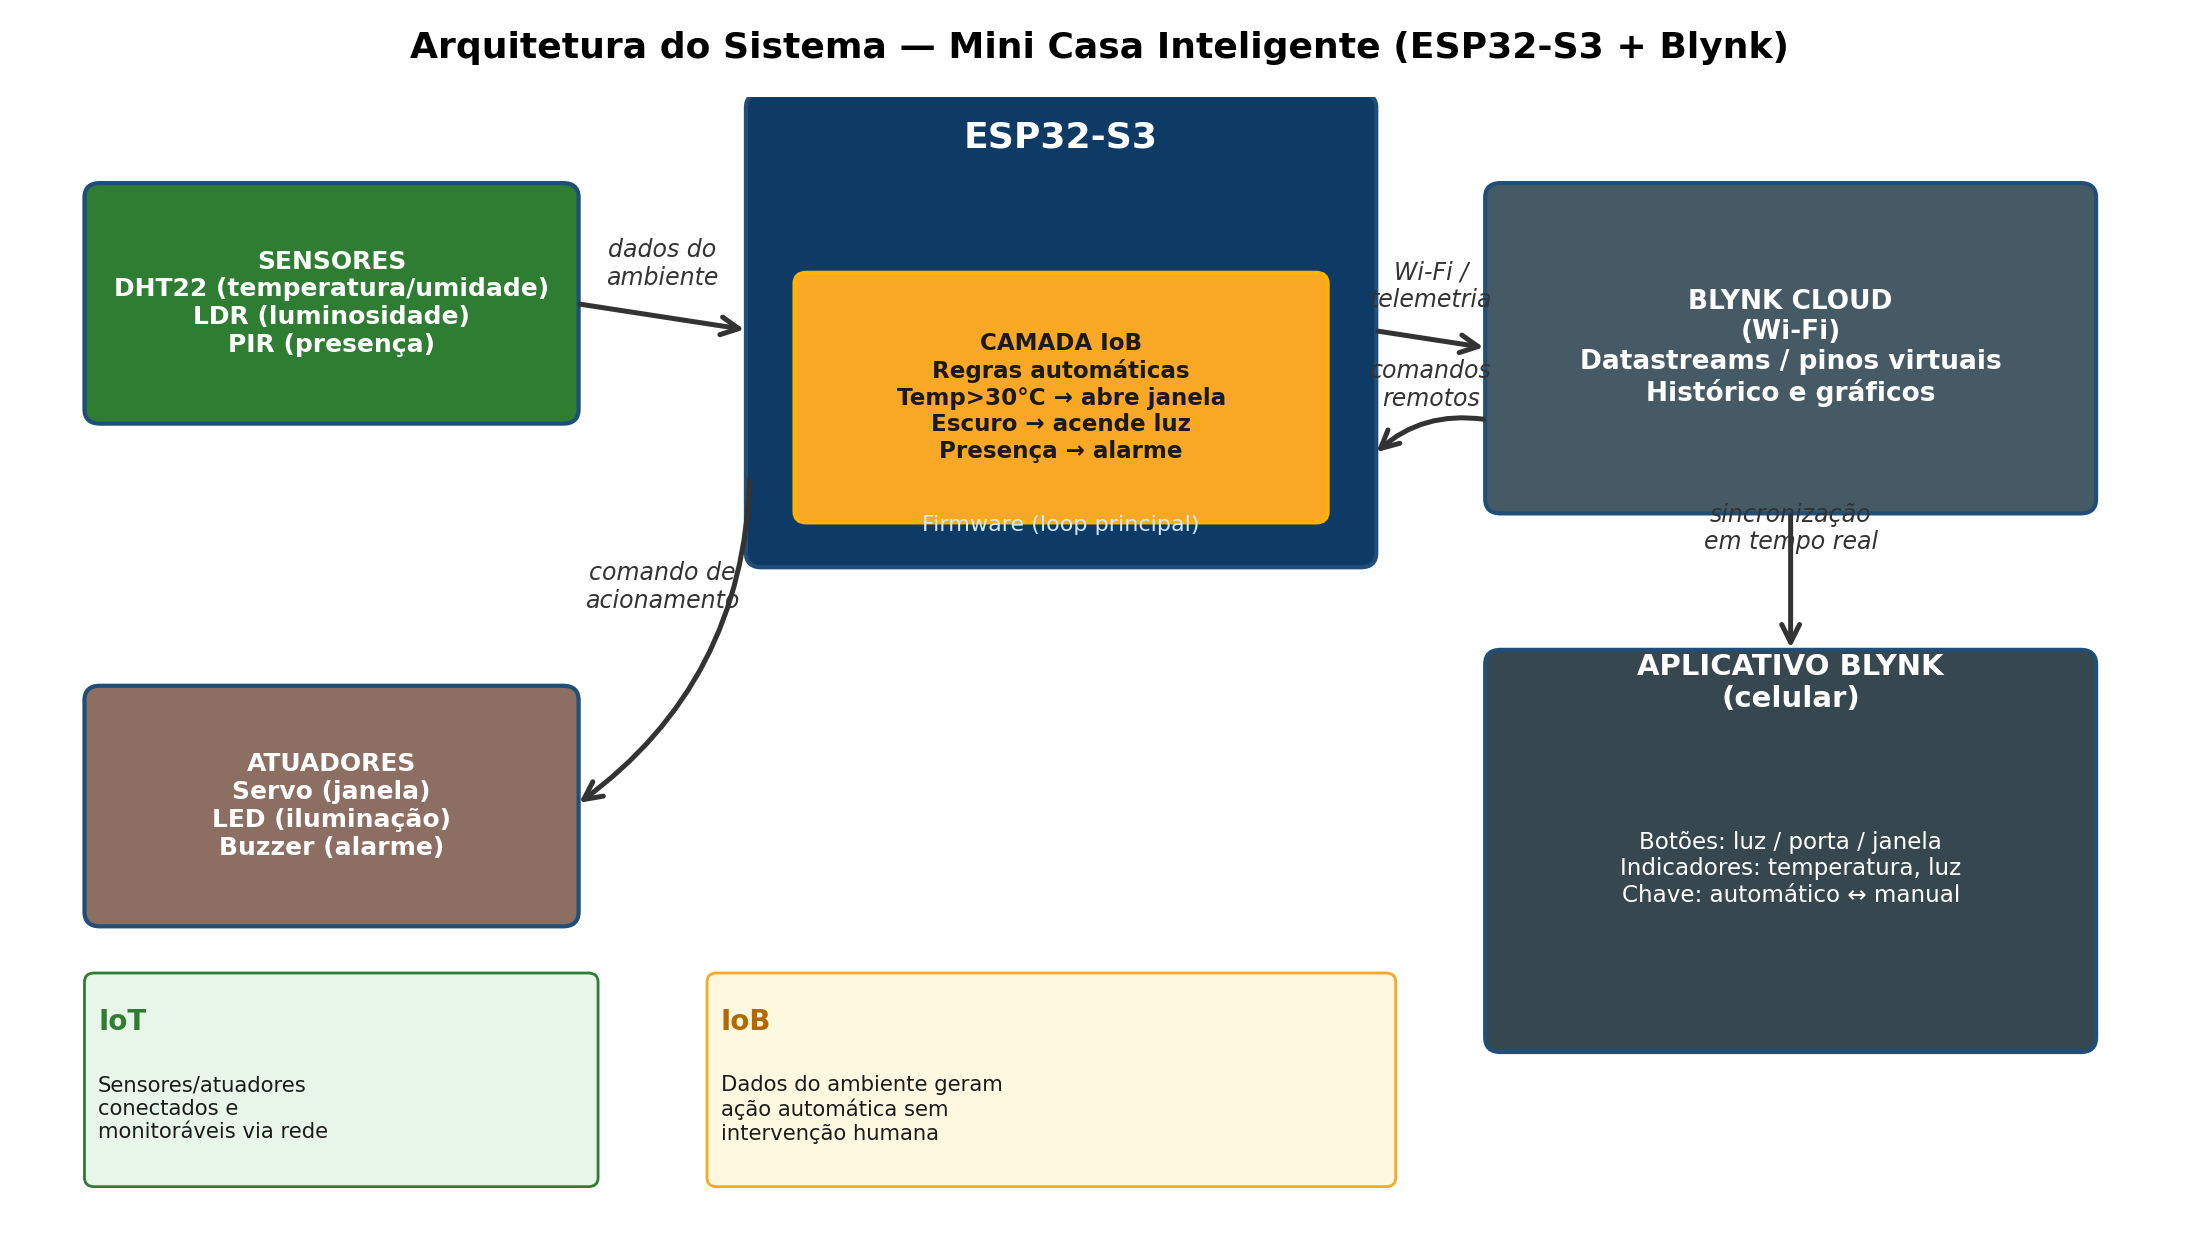
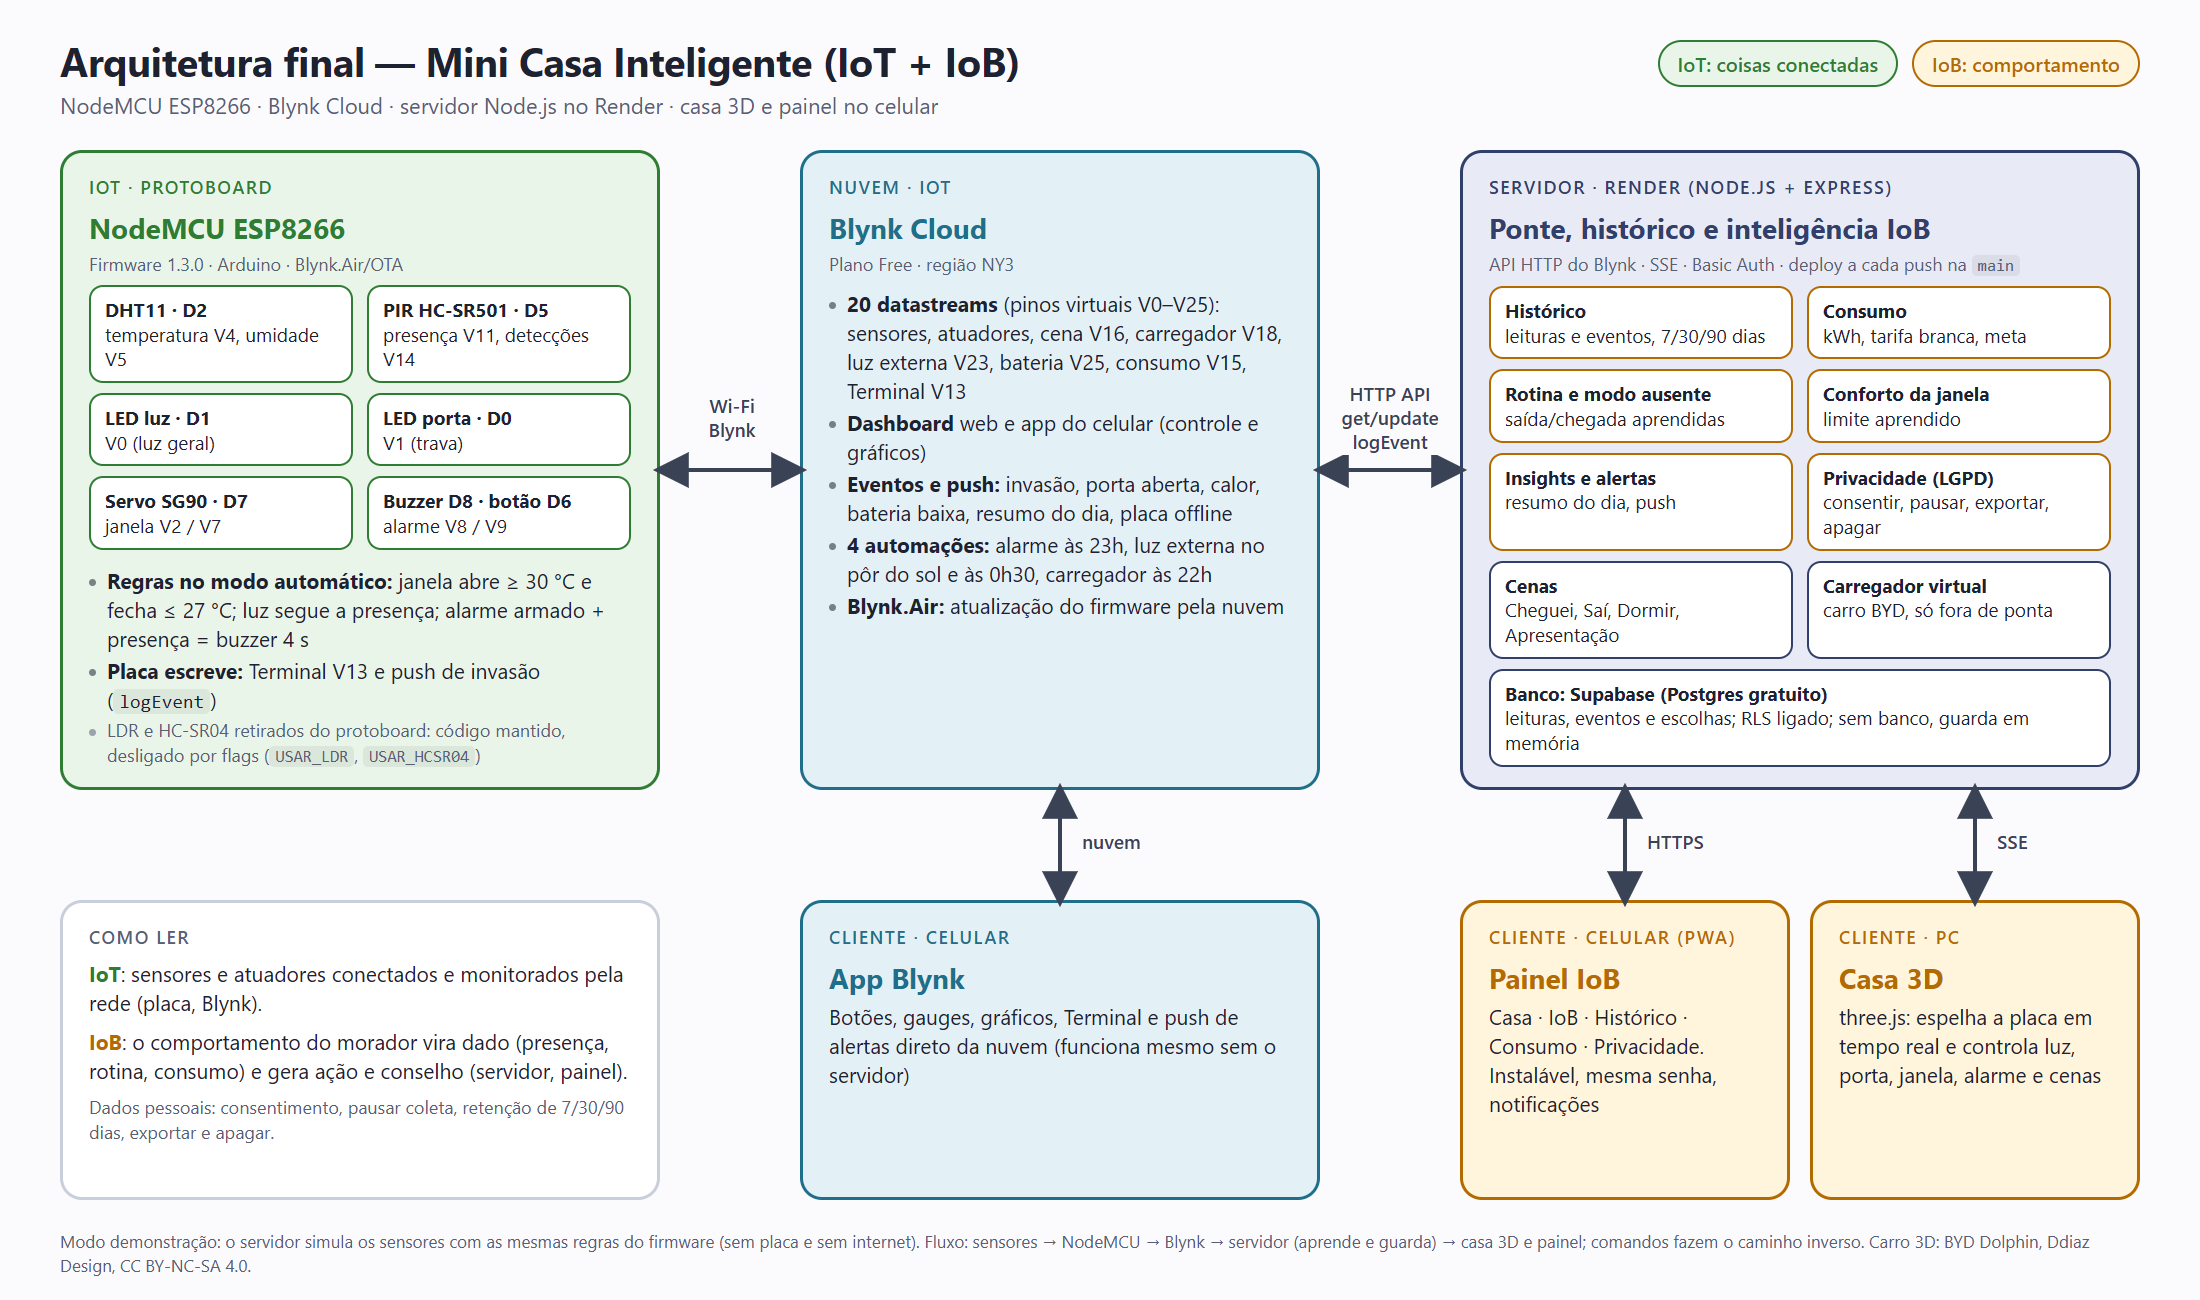
docs(E1): Diagrama da arquitetura final e README atualizados
- docs/arquitetura_iot_iob.png redesenhado: NodeMCU ESP8266, Blynk Cloud, servidor no
  Render com Supabase, casa 3D, painel do celular e app Blynk; legenda IoT x IoB
- README da raiz: IoT x IoB x ética, hardware e pinos virtuais, LDR/HC-SR04 retirados,
  firmware 1.3.0, como rodar, Blynk, Render e créditos dos modelos BYD
- app-3d/README: fluxo com o Supabase, módulos do servidor, variáveis novas e seção
  sobre datastreams, eventos, push e Terminal do Blynk

Refs #27

diff --git a/README.md b/README.md
@@ -1,40 +1,95 @@
 # Mini Casa Inteligente — IoT + IoB
 
-Projeto final de **Internet das Coisas e do Comportamento** (FEPI · Sistemas de Informação).
-NodeMCU ESP8266 com sensores e atuadores, controlado pelo Blynk e espelhado em tempo real
-por um gêmeo digital 3D.
+Projeto final de **Internet das Coisas e do Comportamento** (FEPI · Sistemas de Informação · Prof. Evaldo Renó).
+Um NodeMCU ESP8266 com sensores e atuadores, controlado pelo Blynk, espelhado em tempo real por um gêmeo digital 3D
+e acompanhado por um painel no celular que **aprende a rotina da casa** (a parte IoB).
+
+![Arquitetura final](docs/arquitetura_iot_iob.png)
 
 ```
-app-3d/      Casa 3D + servidor ponte com o Blynk (Node.js, three.js)
-firmware/    Firmware do NodeMCU ESP8266 (credenciais em secrets.h, fora do git)
-scripts/     Tarefas do VS Code: instalar, gravar USB, gravar Wi-Fi, gerar .bin
-wokwi/       diagram.json e libraries.txt do simulador (versão ESP32-S3, referência)
-docs/        Relatório, documento inicial, guia de testes, capturas de tela
+Protoboard ── NodeMCU ESP8266 ── Wi-Fi ──► Blynk Cloud ◄── API HTTP ── servidor Node.js (Render) ── SSE ──► casa 3D e painel do celular
+                                                 │                              └── Supabase (histórico)
+                                                 └── app e dashboard do Blynk, eventos, push e automações
 ```
+
+## IoT × IoB: onde está cada parte
+
+| | O que é | Onde está |
+|---|---|---|
+| **IoT** | Sensores (DHT11, PIR) e atuadores (LEDs de luz e porta, servo da janela, buzzer, botão) conectados e controlados pela rede | `firmware/` (NodeMCU), Blynk Cloud, dashboard e app do Blynk |
+| **IoB** | O comportamento do morador vira dado e gera ação e conselho: histórico, consumo e economia, rotina aprendida, modo ausente, conforto adaptativo da janela, insights, alertas, cenas e carregador do carro elétrico | `app-3d/server/*.js`, painel do celular (`/painel`), casa 3D |
+| **Ética** | Consentimento no primeiro acesso, pausar a coleta, retenção de 7/30/90 dias, exportar e apagar os dados (LGPD) | tela Privacidade do painel; texto em [`app-3d/README.md`](app-3d/README.md) |
+
+## Pastas
+
+```
+app-3d/      Casa 3D + servidor ponte com o Blynk + painel do celular (Node.js, three.js)
+firmware/    Firmware do NodeMCU ESP8266 (credenciais em secrets.h, fora do git)
+scripts/     Tarefas do VS Code: instalar, compilar, gravar USB, gravar Wi-Fi, gerar .bin
+wokwi/       diagram.json e libraries.txt do simulador (versão ESP32-S3, referência)
+docs/        Hospedagem, Blynk (datastreams, dashboard, eventos), capturas de tela, documentos do projeto
+render.yaml  Blueprint do Render (deploy automático a cada push na main)
+```
+
+## Hardware
+
+| Peça | Pino | Pino virtual no Blynk |
+|---|---|---|
+| LED luz | D1 | V0 |
+| LED trava da porta | D0 | V1 |
+| Servo SG90 (janelas) | D7 | V2 comando · V7 status |
+| DHT11 | D2 | V4 temperatura · V5 umidade |
+| PIR HC-SR501 | D5 | V11 presença · V14 detecções do dia |
+| Buzzer | D8 | V8 status do alarme |
+| Botão arma/desarma | D6 | V9 |
+
+O **LDR** e o **HC-SR04** foram retirados do protoboard: ficaram instáveis e atrapalhavam a presença do PIR.
+O código foi mantido e é desligado por flags (`USAR_LDR`, `USAR_HCSR04` no firmware; `SENSORES=` no servidor),
+então religar é só trocar as flags. Sem o HC-SR04, o carro virou o **carregador virtual** do carro elétrico (BYD
+Dolphin em 3D, CC BY-NC-SA 4.0, Ddiaz Design), que entra no consumo de energia.
+
+Regras do firmware no modo automático: janela abre ≥ 30 °C e fecha ≤ 27 °C; a luz segue a presença; alarme armado +
+presença dispara o buzzer por 4 s. Firmware atual: **1.3.0** (Terminal V13 e push de invasão pela placa).
 
 ## Primeira vez em um PC
 
 1. Abra a pasta no VS Code.
 2. `Ctrl+Shift+P` → *Tasks: Run Task* → **ESP8266: instalar ferramentas**.
 3. Preencha `firmware/casa_inteligente/secrets.h` (token do Blynk, Wi-Fi, senha do OTA).
-4. Placa no USB → `Ctrl+Shift+B` (**ESP8266: gravar pela USB**).
+4. **ESP8266: compilar** e, com a placa no USB, `Ctrl+Shift+B` (**ESP8266: gravar pela USB**).
 
 Detalhes, pinagem e atualização pelo Wi-Fi: [`firmware/README.md`](firmware/README.md).
 
-## Casa 3D
+## Casa 3D e servidor
 
 Tarefa **Casa 3D: iniciar**, ou:
 
 ```bash
 cd app-3d
 npm install
-npm start          # http://localhost:3000
+npm start          # http://localhost:3000   (painel do celular em /painel)
+npm test           # 48 testes do servidor
 ```
 
-Sem `app-3d/.env` abre em **modo demonstração**. Para espelhar a placa, copie
-`app-3d/.env.example` para `app-3d/.env` e preencha `BLYNK_TOKEN` e `BLYNK_SERVER`.
+Sem `app-3d/.env` abre em **modo demonstração** (sensores simulados com as mesmas regras do firmware, sem placa e
+sem internet) — é também o plano B da apresentação. Para espelhar a placa, copie `app-3d/.env.example` para
+`app-3d/.env` e preencha `BLYNK_TOKEN` e `BLYNK_SERVER`. Referência completa (variáveis, API, painel, privacidade,
+carro, cenas): [`app-3d/README.md`](app-3d/README.md).
+
+## Blynk
+
+Datastreams (V0–V25), dashboard web e do app, eventos com push (invasão, porta aberta, calor, bateria baixa, resumo do
+dia), automações e Terminal: passo a passo em [`docs/BLYNK.md`](docs/BLYNK.md).
 
 ## Publicado no Render
 
-O servidor também roda no Render (plano Free), configurado pelo `render.yaml` da raiz, com senha obrigatória
-e deploy automático a cada push na `main`. Passo a passo, variáveis e cuidados: [`docs/HOSPEDAGEM.md`](docs/HOSPEDAGEM.md).
+O servidor também roda no Render (plano Free), configurado pelo `render.yaml`, com senha obrigatória e deploy
+automático a cada push na `main`. O histórico fica no Supabase (Postgres gratuito). Passo a passo, variáveis e
+cuidados (inclusive o monitor para o serviço não dormir): [`docs/HOSPEDAGEM.md`](docs/HOSPEDAGEM.md).
+
+## Créditos
+
+- Modelos 3D do carro: *2024 BYD Seal* e *2024 BYD Dolphin*, de **Ddiaz Design** (Sketchfab), licença
+  [CC BY-NC-SA 4.0](https://creativecommons.org/licenses/by-nc-sa/4.0/); cópias com geometria comprimida (meshopt),
+  mesma licença. Uso não comercial, com atribuição (o crédito aparece no canto da casa 3D).
+- three.js, Express, uPlot e as fontes DM Sans, Unbounded e JetBrains Mono (servidas localmente).

diff --git a/app-3d/README.md b/app-3d/README.md
@@ -6,10 +6,15 @@ acontece na casa virtual, e o que você toca na casa virtual acontece no protobo
 ```
 Protoboard (sensores/atuadores)
       │
-  NodeMCU  ── Wi-Fi ──► Blynk Cloud ◄── HTTP ── server.js ── SSE (tempo real) ──► navegador / celular (3D)
-                             ▲                                                      │
+  NodeMCU  ── Wi-Fi ──► Blynk Cloud ◄── HTTP ── server.js ── SSE (tempo real) ──► casa 3D e painel do celular
+                             ▲            (get, update, logEvent)   │
+                             │                                      └── Supabase (histórico, rotina, escolhas)
                              └──────────────── comandos (luz, porta, janela…) ◄────┘
 ```
+
+Diagrama completo da arquitetura final: [`../docs/arquitetura_iot_iob.png`](../docs/arquitetura_iot_iob.png).
+Módulos do servidor (`server/`): `history.js` (histórico), `consumo.js`, `carregador.js`, `rotina.js`, `conforto.js`,
+`insights.js` (insights e alertas), `cenas.js` e `blynk.js` (datastreams do servidor, eventos com push e Terminal V13).
 
 ## O que cada componente faz na casa 3D
 
@@ -44,6 +49,11 @@ e o servidor não lê nem simula V6/V10/V12. O código continua: `SENSORES=ldr,g
 | `PAINEL_SENHA` / `PAINEL_USUARIO` | Senha do painel (Basic Auth, usuário padrão `casa`). Obrigatória antes de publicar: o link controla luz, porta e alarme. Vazia = aberto (dev). `/healthz` fica sempre aberto, sem dados, para o health check |
 | `DATABASE_URL` | Postgres do histórico (Supabase/Neon). Vazio = memória. Ignorado no modo demonstração. Veja "Histórico" abaixo |
 | `HISTORICO_POLL_MS` | Consulta de fundo ao Blynk sem página aberta, para o histórico (padrão 60000; `0` desliga) |
+| `CONSUMO_W`, `TARIFA_KWH`, `TARIFA_BRANCA`, `META_MENSAL_KWH` | Potências, tarifa convencional/branca e meta mensal do consumo (aba Consumo) |
+| `CONSUMO_V15` | `1` publica o consumo do dia (kWh) no V15 do Blynk, só quando muda (datastream criado, ver `../docs/BLYNK.md`) |
+| `CARREGADOR_KW`, `BATERIA_KWH` | Carregador virtual do carro elétrico (padrão 2,2 kW e 40 kWh) |
+| `CARRO_MODELO` | Modelo 3D do carro em `public/modelos` (nome sem `.glb`); vazio = o primeiro em ordem alfabética (BYD Dolphin) |
+| `CONFORTO_V17` | `1` publica o limite aprendido da janela no V17 (só quando o firmware passar a ler esse pino) |
 
 ## Rodando
 
@@ -59,8 +69,8 @@ regras do firmware (incluindo a distância do carro na garagem). Serve de plano 
 ### Ligando à placa de verdade
 
 1. Grave o firmware pela tarefa **ESP8266: gravar pela USB** (`Ctrl+Shift+B`), com `secrets.h` preenchido.
-2. No Blynk.Console, no template, garanta os datastreams **V0 a V5, V7 a V9, V11 e V14**
-   (V14 *Integer*; V6/V10/V12 só se religar os sensores opcionais).
+2. No Blynk.Console, no template, crie os datastreams da tabela de `../docs/BLYNK.md` (20 no total: V0 a V16, V18, V23
+   e V25). V6, V10 e V12 ficam criados mas desativados (sensores opcionais).
 3. Copie `.env.example` para `.env` e preencha `BLYNK_TOKEN` e `BLYNK_SERVER`
    (a região do seu Blynk).
 4. `npm start` — o selo no topo muda para **Blynk ao vivo** e **NodeMCU online**.
@@ -341,6 +351,21 @@ Eventos vêm do mais novo ao mais antigo. Ao vivo, cada evento novo também cheg
 como `event: evento` (mesmo formato). Banco fora do ar → 503 nas duas rotas; a casa continua funcionando
 e a fila é gravada quando o banco volta. As cenas (I4) já registram: cada comando delas passa por
 `comandar(pino, valor, "cena")` no `server.js` (que chama `historico.comando`) e a cena em si vira um evento `cena`.
+
+## Blynk: o que o servidor faz além de ler e comandar (`server/blynk.js`)
+
+Só no modo ao vivo. Passo a passo do Console (datastreams, dashboard, eventos e automações): [`../docs/BLYNK.md`](../docs/BLYNK.md).
+
+- **Datastreams do servidor (K1):** V16 cena, V18 carregador, V23 luz externa e V25 bateria do carro são publicados quando
+  mudam e lidos de volta: mexer neles no app do Blynk ou numa automação roda a cena, liga o carregador ou acende a externa
+  (origem "Blynk" no histórico). Leitura atrasada não desfaz um envio (sem eco). V15 = consumo do dia.
+- **Eventos e push (K3):** os alertas da aba IoB viram eventos do Blynk pela API HTTP (`logEvent`): `porta_aberta`,
+  `calor_janela` e `bateria_baixa`, mais o `resumo_diario` às 21h. No máximo 90 por dia (o Blynk aceita 100) e sem repetir o
+  mesmo em 15 min. O push de **invasão** sai da placa (firmware 1.3.0); a placa offline usa o evento embutido do Blynk.
+- **Terminal V13 (F3):** cada evento do histórico vira uma linha (`20:14 luz ligada (painel)`); a placa escreve as suas
+  (regra automática de luz e janela, alarme) e o servidor não repete essas.
+- **Automações do Console (5 no plano Free):** alarme às 23h, luz externa no pôr do sol e às 0h30, carregador às 22h
+  (seg a sex). As que dependem do servidor só agem quando ele lê o Blynk; o monitor do Render (`/healthz`) o mantém acordado.
 
 ## Observações
 
